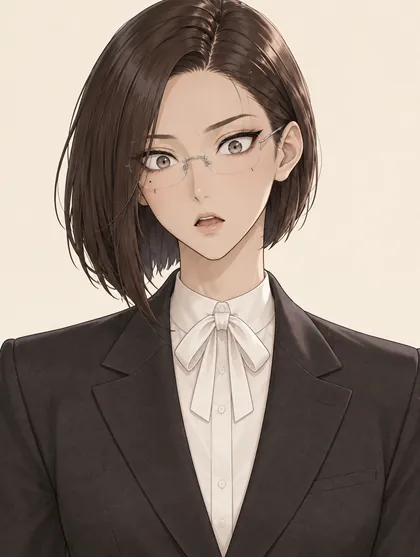
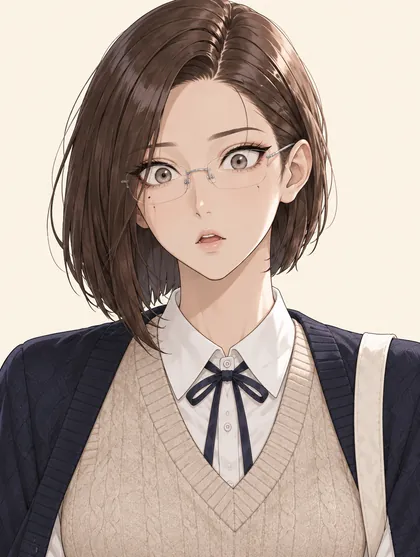
서하린: 대학생 시절 그림(니트 조끼·카디건·교복풍)과 직장인 시절 그림 분리(졸업 이후 m≥48에 직장인 그림 사용)
Claude-Session: https://claude.ai/code/session_01PA4WqGbsVBPG7wjJTt1QyA

diff --git a/index.html b/index.html
@@ -331,7 +331,7 @@ h1,h2,h3,.wordmark,.hud-line b,.sh-head b,.wizq h2,input[type=text]{font-family:
    <button class="btn blue" id="b-new">새로 시작</button>
    <button class="btn ghost sm" id="b-slots" style="display:none;background:rgba(255,255,255,.8)">저장 슬롯 불러오기</button>
    <button class="btn ghost sm" id="b-cont" style="display:none;background:rgba(255,255,255,.8)">이어하기</button>
-   <div class="note">저장은 이 기기에만 보관돼요. · 빌드 #36 · 2026.10.11</div>
+   <div class="note">저장은 이 기기에만 보관돼요. · 빌드 #37 · 2026.10.11</div>
   </div>
  </section>
  <section id="setup" class="screen">
@@ -369,7 +369,7 @@ h1,h2,h3,.wordmark,.hud-line b,.sh-head b,.wizq h2,input[type=text]{font-family:
  <section id="end" class="screen"></section>
  <div id="act" class="actcard"></div>
  <div id="ev" class="evcard"></div>
- <div id="buildtag">빌드 #36 · 2026.10.11</div>
+ <div id="buildtag">빌드 #37 · 2026.10.11</div>
  <div class="ov" id="ov"><div class="sheet" id="sheet"></div></div>
 </div>
 <script>// ==ENGINE== 순수 게임 로직 (DOM 금지: sim.mjs가 이 파일들을 그대로 실행한다)
@@ -3369,7 +3369,7 @@ function showDex(){
 const PLACE_FULL = {rain:'art/cover.webp', shop:'art/bg_shop.webp'};
 const seasonPlace = ev => ev.place === 'campus' ? 'campus' : ev.place === 'room' ? 'room' : null;
 function evOpen(ev, inner){
-  const el = $('ev'), sp = seasonPlace(ev), img = ev.img || (sp && S ? seasonBg(S, sp) : PLACE_FULL[ev.place]);
+  const el = $('ev'), sp = seasonPlace(ev), img0 = ev.img === 'art/rival_harin.webp' && S && S.m >= 48 ? 'art/rival_harin_work.webp' : ev.img, img = img0 || (sp && S ? seasonBg(S, sp) : PLACE_FULL[ev.place]);
   el.className = 'evcard on p-' + (ev.place || 'room'); paintEdge('card');
   el.style.backgroundImage = img ? `url(${img})` : 'none';
   el.innerHTML = `<div class="evshade"></div>${img ? '' : `<div class="evicon">${PLACE_ICON[ev.place] || '🏠'}</div>`}<div class="evpanel" id="evpanel">${inner}</div>`;
@@ -3388,7 +3388,7 @@ function playEvent(ev){
       document.querySelectorAll('#ev .ch').forEach(b => b.onclick = () => {
         const out = cs[+b.dataset.k].run(S); save();
         if(!out.text){ evClose(); render(); return resolve(); }
-        evOpen(ev, head + (ev.face ? `<img class="face" src="art/face_${ev.face}_${out.mood || 'serious'}.webp" alt="" onerror="this.style.display='none'">` : faceImg(out.chips, ev.lover)) + `<div class="txt">${esc(out.text)}</div><div class="chips" style="clear:both">${chipHTML(out.chips)}</div><button class="btn" id="enx" style="margin-top:14px">계속</button>`);
+        evOpen(ev, head + (ev.face ? `<img class="face" src="art/face_${ev.face === 'harin' && S.m >= 48 ? 'harin_w' : ev.face}_${out.mood || 'serious'}.webp" alt="" onerror="this.style.display='none'">` : faceImg(out.chips, ev.lover)) + `<div class="txt">${esc(out.text)}</div><div class="chips" style="clear:both">${chipHTML(out.chips)}</div><button class="btn" id="enx" style="margin-top:14px">계속</button>`);
         $('enx').onclick = () => { evClose(); render(); resolve(); };
       });
     };
@@ -3470,7 +3470,7 @@ function initGame(){
   $('btn-advice').onclick = () => { if($('dialog').hidden) showDialog(); else $('dialog').hidden = true; };
   $('dlg-x').onclick = () => { $('dialog').hidden = true; };
   document.querySelectorAll('[data-sheet]').forEach(b => b.onclick = () => ({stat:showStats, career:showCareer, love:showLove, dex:showDex, shop:showShop}[b.dataset.sheet])());
-  $('b-menu').onclick = () => { openSheet(sheetHead('메뉴') + `<div class="menu-list"><button class="btn ghost sm" id="m-update">🔄 새 버전 확인</button><button class="btn ghost sm" id="m-slots">💾 저장 · 불러오기 (슬롯 5개)</button><button class="btn ghost sm" id="m-title">🏠 타이틀로 (자동 저장)</button></div><div class="foot">빌드 #36 · 2026.10.11<br><span id="diag"></span></div>`);
+  $('b-menu').onclick = () => { openSheet(sheetHead('메뉴') + `<div class="menu-list"><button class="btn ghost sm" id="m-update">🔄 새 버전 확인</button><button class="btn ghost sm" id="m-slots">💾 저장 · 불러오기 (슬롯 5개)</button><button class="btn ghost sm" id="m-title">🏠 타이틀로 (자동 저장)</button></div><div class="foot">빌드 #37 · 2026.10.11<br><span id="diag"></span></div>`);
     $('x').onclick = closeSheet;
     try{ const pr = document.createElement('div'); pr.style.cssText = 'position:fixed;left:0;bottom:0;padding-bottom:env(safe-area-inset-bottom);padding-top:env(safe-area-inset-top);visibility:hidden'; document.body.appendChild(pr); const cs = getComputedStyle(pr), sb = cs.paddingBottom, st = cs.paddingTop; pr.remove(); const sa = window.navigator.standalone === true || matchMedia('(display-mode: standalone)').matches; $('diag').textContent = `화면 ${innerWidth}×${innerHeight} · 기기 ${screen.width}×${screen.height} · 안전영역 위 ${st}/아래 ${sb} · ${sa ? '홈 화면 앱' : '브라우저'}`; }catch(e){}
     $('m-update').onclick = () => checkUpdate(true);
@@ -3498,7 +3498,7 @@ function fitFull(){
 fitFull(); addEventListener('resize', fitFull); addEventListener('orientationchange', () => setTimeout(fitFull, 300)); setTimeout(fitFull, 600);
 
 // ── 새 버전 확인: 사파리는 페이지를 몇 분간 기억해 두므로, 서버의 빌드 번호와 비교해 알려 준다 ──
-const BUILD_NO = parseInt(('#36 · 2026.10.11'.match(/#(\d+)/) || [0, 0])[1], 10);
+const BUILD_NO = parseInt(('#37 · 2026.10.11'.match(/#(\d+)/) || [0, 0])[1], 10);
 async function checkUpdate(manual){
   try{
     const r = await fetch(location.pathname + '?_=' + Date.now(), {cache:'no-store'}); const txt = await r.text();

diff --git a/src/ui.js b/src/ui.js
@@ -270,7 +270,7 @@ function showDex(){
 const PLACE_FULL = {rain:'art/cover.webp', shop:'art/bg_shop.webp'};
 const seasonPlace = ev => ev.place === 'campus' ? 'campus' : ev.place === 'room' ? 'room' : null;
 function evOpen(ev, inner){
-  const el = $('ev'), sp = seasonPlace(ev), img = ev.img || (sp && S ? seasonBg(S, sp) : PLACE_FULL[ev.place]);
+  const el = $('ev'), sp = seasonPlace(ev), img0 = ev.img === 'art/rival_harin.webp' && S && S.m >= 48 ? 'art/rival_harin_work.webp' : ev.img, img = img0 || (sp && S ? seasonBg(S, sp) : PLACE_FULL[ev.place]);
   el.className = 'evcard on p-' + (ev.place || 'room'); paintEdge('card');
   el.style.backgroundImage = img ? `url(${img})` : 'none';
   el.innerHTML = `<div class="evshade"></div>${img ? '' : `<div class="evicon">${PLACE_ICON[ev.place] || '🏠'}</div>`}<div class="evpanel" id="evpanel">${inner}</div>`;
@@ -289,7 +289,7 @@ function playEvent(ev){
       document.querySelectorAll('#ev .ch').forEach(b => b.onclick = () => {
         const out = cs[+b.dataset.k].run(S); save();
         if(!out.text){ evClose(); render(); return resolve(); }
-        evOpen(ev, head + (ev.face ? `<img class="face" src="art/face_${ev.face}_${out.mood || 'serious'}.webp" alt="" onerror="this.style.display='none'">` : faceImg(out.chips, ev.lover)) + `<div class="txt">${esc(out.text)}</div><div class="chips" style="clear:both">${chipHTML(out.chips)}</div><button class="btn" id="enx" style="margin-top:14px">계속</button>`);
+        evOpen(ev, head + (ev.face ? `<img class="face" src="art/face_${ev.face === 'harin' && S.m >= 48 ? 'harin_w' : ev.face}_${out.mood || 'serious'}.webp" alt="" onerror="this.style.display='none'">` : faceImg(out.chips, ev.lover)) + `<div class="txt">${esc(out.text)}</div><div class="chips" style="clear:both">${chipHTML(out.chips)}</div><button class="btn" id="enx" style="margin-top:14px">계속</button>`);
         $('enx').onclick = () => { evClose(); render(); resolve(); };
       });
     };

diff --git a/sw.js b/sw.js
@@ -1,5 +1,5 @@
 // 자동 생성 파일 (build.mjs). 직접 수정하지 마세요.
-const CACHE = 'rewind-ten-516b1b9f35';
+const CACHE = 'rewind-ten-bb07ae21f7';
 const CORE = ["./","index.html","manifest.json","icon-192.png","icon-512.png","art/cover.webp","art/age20.webp","art/age22.webp","art/act_study.webp","art/act_cafe.webp","art/act_rest.webp","art/act_friends.webp","art/face_happy.webp","art/face_tired.webp"];
 self.addEventListener('install', e => { e.waitUntil(caches.open(CACHE).then(c => c.addAll(CORE)).then(() => self.skipWaiting())); });
 self.addEventListener('activate', e => { e.waitUntil(caches.keys().then(ks => Promise.all(ks.filter(k => k.startsWith('rewind-ten-') && k !== CACHE).map(k => caches.delete(k)))).then(() => self.clients.claim())); });
